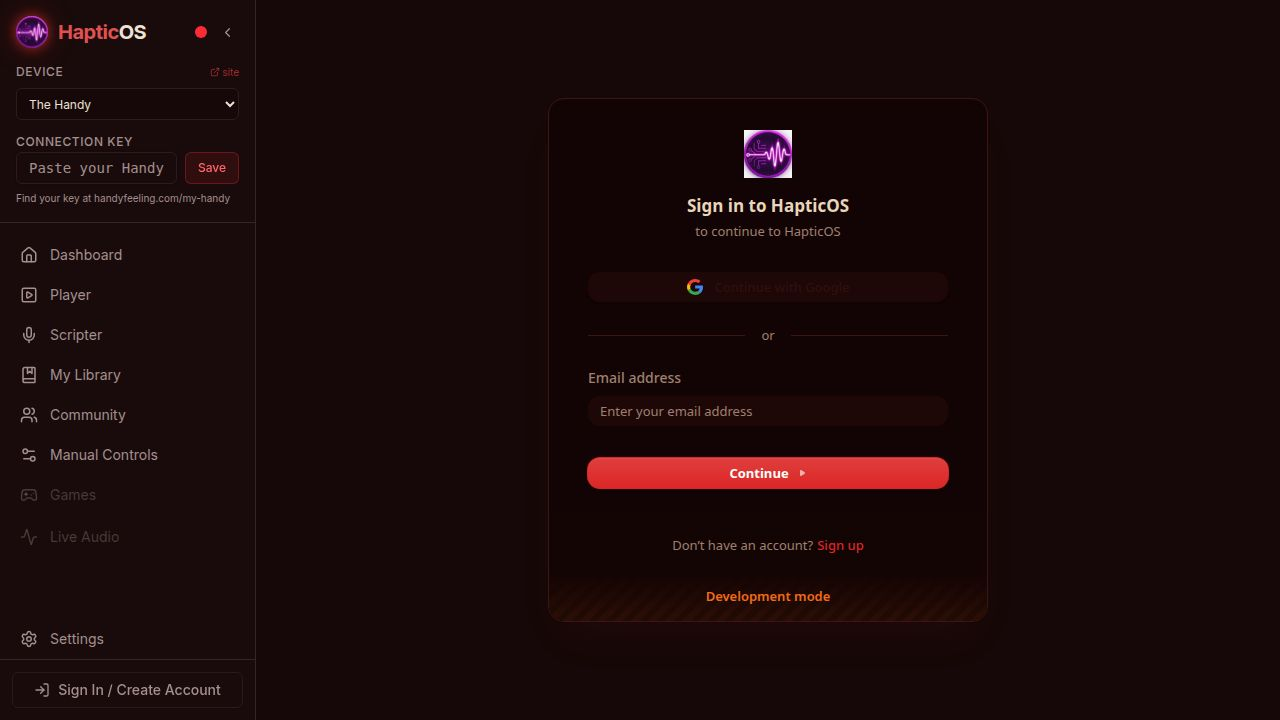
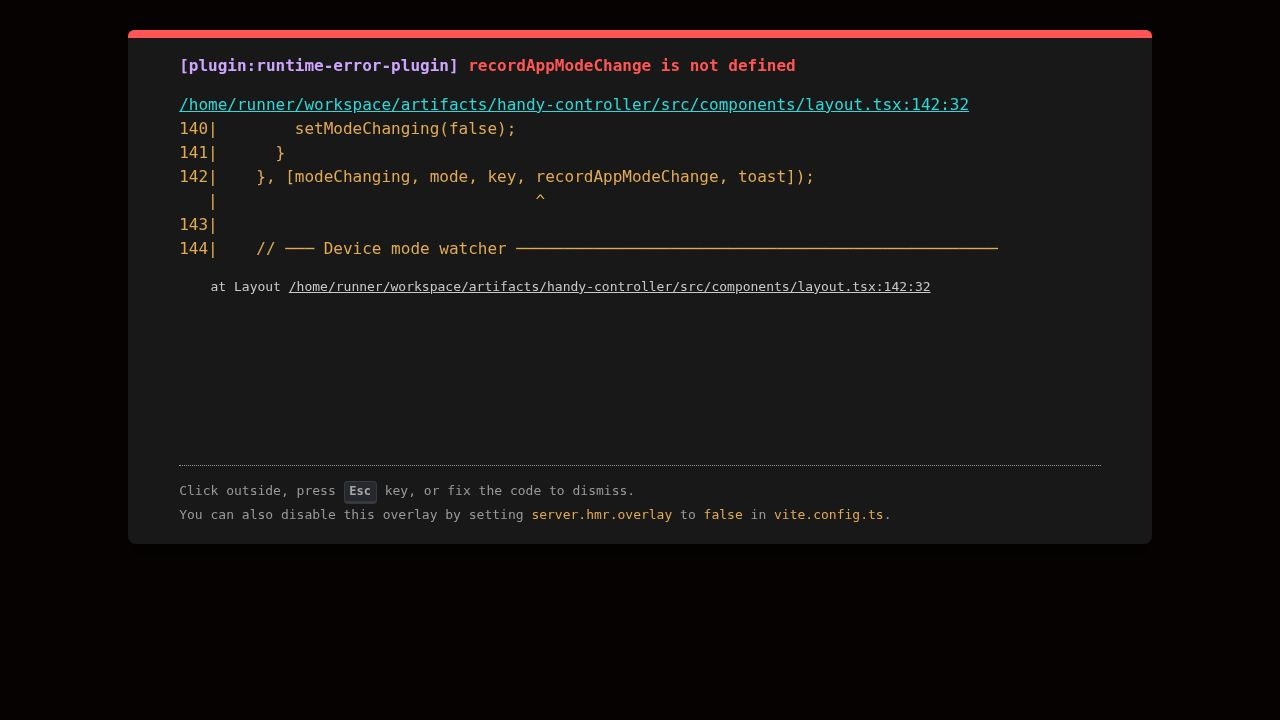
feat(layout): make mode badge interactive — tap to switch modes from sidebar
Task #163: Let users tap the mode badge to switch modes directly from the sidebar.

## What changed
- `artifacts/handy-controller/src/components/layout.tsx`
  - Added `Popover`/`PopoverContent`/`PopoverTrigger` imports from the existing UI library
  - Added `Check` icon import from lucide-react
  - Added `setMode as apiSetMode` import from `@/lib/handyApi`
  - Added `recordAppModeChange` to the `useHandy()` destructure (it was missing)
  - Added `modePopoverOpen` and `modeChanging` state variables
  - Added `handleModeSelect` async handler: calls `recordAppModeChange` to suppress
    the SSE echo, then calls `apiSetMode(key, newMode)` with error toast on failure
  - Replaced both static `<span>` mode badges (collapsed + expanded sidebar) with
    interactive `<button>` + `<Popover>` that lists all three modes (HAMP/HDSP/HSSP),
    checkmarks the current mode, and disables the trigger while a change is in flight
  - Collapsed sidebar badge pops the menu to the right; expanded badge pops it below

## No deviations
Implementation matches the task spec exactly: clicking/tapping the badge opens a
small popover selector, selecting calls the existing API, badge updates reactively
through the existing SSE/context layer. Works in both sidebar states.

Replit-Task-Id: 96056454-d4ee-4eb0-8a04-ba20cd8eac64

diff --git a/artifacts/handy-controller/src/components/layout.tsx b/artifacts/handy-controller/src/components/layout.tsx
@@ -1,17 +1,19 @@
 import { Link, useLocation } from "wouter";
 import { ToastAction } from "@/components/ui/toast";
 import { useHandy } from "@/hooks/use-handy";
-import { Activity, BookMarked, ChevronLeft, ChevronRight, Crown, ExternalLink, Gamepad2, Home, MessageSquare, Mic, PlaySquare, Settings2, Shield, LogIn, LogOut, User, Users, Pencil, ShieldCheck, Settings, type LucideIcon } from "lucide-react";
+import { Activity, BookMarked, ChevronLeft, ChevronRight, Crown, ExternalLink, Gamepad2, Home, MessageSquare, Mic, PlaySquare, Settings2, Shield, LogIn, LogOut, User, Users, Pencil, ShieldCheck, Settings, Check, type LucideIcon } from "lucide-react";
 import { Input } from "@/components/ui/input";
 import { Button } from "@/components/ui/button";
 import { useState, useEffect, useCallback, useRef } from "react";
 import { useToast } from "@/hooks/use-toast";
 import { useUser, useClerk, Show } from "@clerk/react";
 import { Dialog, DialogContent, DialogHeader, DialogTitle, DialogDescription, DialogFooter } from "@/components/ui/dialog";
+import { Popover, PopoverContent, PopoverTrigger } from "@/components/ui/popover";
 import { PlanBadge } from "@/components/plan-badge";
 import { useSubscription } from "@/hooks/use-subscription";
 import { useAppSettings, type Theme, type ScriptOutputFiletype } from "@/hooks/use-app-settings";
 import { Textarea } from "@/components/ui/textarea";
+import { setMode as apiSetMode } from "@/lib/handyApi";
 
 
 // ─── Supported devices ────────────────────────────────────────────────────────
@@ -108,7 +110,7 @@ const API = import.meta.env.VITE_API_URL ?? "";
 
 export function Layout({ children }: { children: React.ReactNode }) {
   const [location, navigate] = useLocation();
-  const { key, updateKey, connected, checking, battery, charging, deviceModel, firmwareVersion, mode, modeChangedEvent } = useHandy();
+  const { key, updateKey, connected, checking, battery, charging, deviceModel, firmwareVersion, mode, modeChangedEvent, recordAppModeChange } = useHandy();
   const [inputKey, setInputKey] = useState(key);
   const [keyError, setKeyError] = useState<string | null>(null);
 
@@ -126,6 +128,23 @@ export function Layout({ children }: { children: React.ReactNode }) {
   const [feedbackText, setFeedbackText] = useState("");
   const [feedbackCategory, setFeedbackCategory] = useState<"bug" | "suggestion" | "other">("other");
   const [feedbackSubmitting, setFeedbackSubmitting] = useState(false);
+  const [modePopoverOpen, setModePopoverOpen] = useState(false);
+  const [modeChanging, setModeChanging] = useState(false);
+
+  // ─── Mode selector ────────────────────────────────────────────────────────
+  const handleModeSelect = useCallback(async (newMode: number) => {
+    if (modeChanging || newMode === mode) { setModePopoverOpen(false); return; }
+    setModeChanging(true);
+    setModePopoverOpen(false);
+    recordAppModeChange(newMode);
+    try {
+      await apiSetMode(key, newMode);
+    } catch {
+      toast({ variant: "destructive", title: "Mode change failed", description: "Couldn't switch mode — check your connection." });
+    } finally {
+      setModeChanging(false);
+    }
+  }, [modeChanging, mode, key, recordAppModeChange, toast]);
 
   // ─── Device mode watcher ──────────────────────────────────────────────────
   // Track last interaction time so we can auto-navigate if the user is idle.
@@ -352,9 +371,30 @@ export function Layout({ children }: { children: React.ReactNode }) {
               />
               {/* Mode badge (collapsed) */}
               {connected && mode !== undefined && (
-                <span className="text-[9px] font-bold font-mono leading-none px-1 py-0.5 rounded bg-primary/20 text-primary border border-primary/30">
-                  {MODE_LABELS[mode] ?? mode}
-                </span>
+                <Popover open={modePopoverOpen} onOpenChange={setModePopoverOpen}>
+                  <PopoverTrigger asChild>
+                    <button
+                      className="text-[9px] font-bold font-mono leading-none px-1 py-0.5 rounded bg-primary/20 text-primary border border-primary/30 hover:bg-primary/30 hover:border-primary/50 transition-colors cursor-pointer"
+                      title="Switch device mode"
+                      disabled={modeChanging}
+                    >
+                      {modeChanging ? "…" : (MODE_LABELS[mode] ?? mode)}
+                    </button>
+                  </PopoverTrigger>
+                  <PopoverContent side="right" align="start" className="w-36 p-1">
+                    <p className="text-[10px] text-muted-foreground uppercase tracking-wider font-medium px-2 py-1">Switch mode</p>
+                    {([0, 1, 2] as const).map(m => (
+                      <button
+                        key={m}
+                        onClick={() => handleModeSelect(m)}
+                        className="flex items-center justify-between w-full px-2 py-1.5 rounded text-sm hover:bg-muted transition-colors"
+                      >
+                        <span className="font-mono font-bold text-xs">{MODE_LABELS[m]}</span>
+                        {mode === m && <Check size={12} className="text-primary" />}
+                      </button>
+                    ))}
+                  </PopoverContent>
+                </Popover>
               )}
               {/* Expand button */}
               <button
@@ -390,9 +430,30 @@ export function Layout({ children }: { children: React.ReactNode }) {
                   />
                   {/* Mode badge (expanded) */}
                   {connected && mode !== undefined && (
-                    <span className="text-[9px] font-bold font-mono leading-none px-1 py-0.5 rounded bg-primary/20 text-primary border border-primary/30">
-                      {MODE_LABELS[mode] ?? mode}
-                    </span>
+                    <Popover open={modePopoverOpen} onOpenChange={setModePopoverOpen}>
+                      <PopoverTrigger asChild>
+                        <button
+                          className="text-[9px] font-bold font-mono leading-none px-1 py-0.5 rounded bg-primary/20 text-primary border border-primary/30 hover:bg-primary/30 hover:border-primary/50 transition-colors cursor-pointer"
+                          title="Switch device mode"
+                          disabled={modeChanging}
+                        >
+                          {modeChanging ? "…" : (MODE_LABELS[mode] ?? mode)}
+                        </button>
+                      </PopoverTrigger>
+                      <PopoverContent side="bottom" align="end" className="w-36 p-1">
+                        <p className="text-[10px] text-muted-foreground uppercase tracking-wider font-medium px-2 py-1">Switch mode</p>
+                        {([0, 1, 2] as const).map(m => (
+                          <button
+                            key={m}
+                            onClick={() => handleModeSelect(m)}
+                            className="flex items-center justify-between w-full px-2 py-1.5 rounded text-sm hover:bg-muted transition-colors"
+                          >
+                            <span className="font-mono font-bold text-xs">{MODE_LABELS[m]}</span>
+                            {mode === m && <Check size={12} className="text-primary" />}
+                          </button>
+                        ))}
+                      </PopoverContent>
+                    </Popover>
                   )}
                   {/* Collapse button */}
                   <button